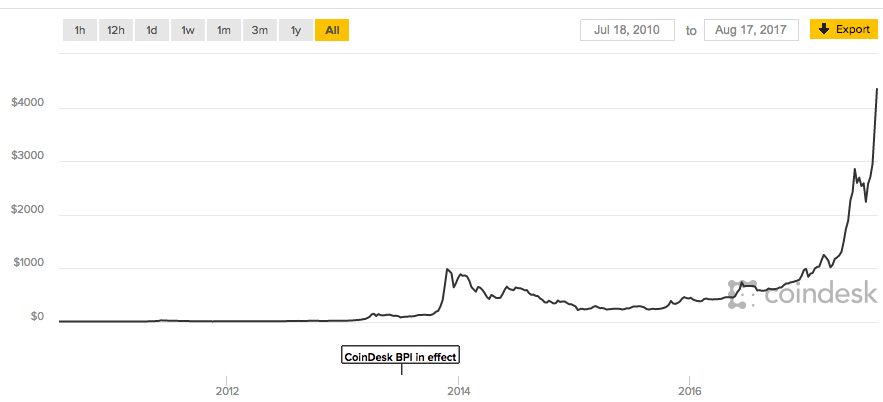
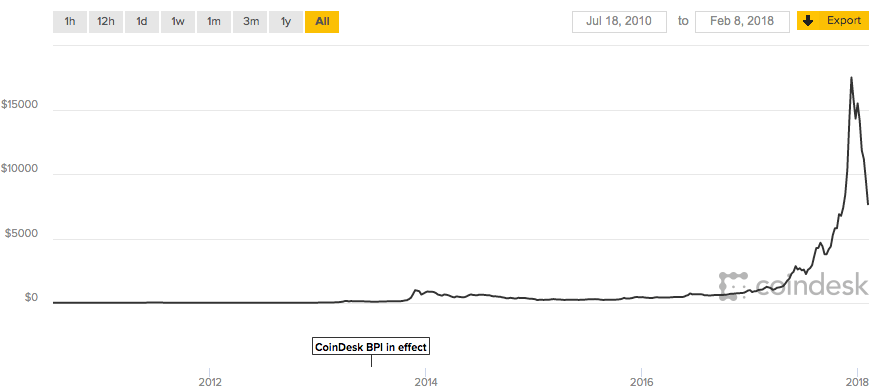
Partially translated into English

diff --git a/bitcoin_and_blockchain/index.html b/bitcoin_and_blockchain/index.html
@@ -36,129 +36,109 @@
         <section>
           <p><a href="https://www.linkedin.com/in/robin-ye-84a131b4/">Robin Ye</a>:</p>
           <blockquote>
-"目前的阶段就像 2000 年 PC 转向互联网时代，大量的 PB / VB / Delphi 程序员要么继续学习，要么被淘汰。而现在是互联网转向AI、物联网和区块链"
+"At this moment, just like in 2000, software development into the Internet age, programmers either continue learning or or be weeded out. Now the Internet age is over, welcome to the age of AI and blockchain."
           </blockquote>
         </section>
         <section>
-          <h3>我们将聊哪些内容</h3>
+          <h3>What we are going to talk about?</h3>
           <br/>
           <ul>
-            <li>货币的演进</li>
-            <li>什么是比特币</li>
-            <li>比特币发展史</li>
-            <li>比特币交易</li>
-            <li>区块链</li>
-            <li>挖矿与共识</li>
-            <li>比特币安全</li>
+            <li>Evolution of Currency</li>
+            <li>What is Bitcoin</li>
+            <li>History of Bitcoin</li>
+            <li>Transactions</li>
+            <li>Blockchain</li>
+            <li>Mining and Consensus</li>
+            <li>User Security Best Practices</li>
           </ul>
         </section>
         <section>
-          <h3>我们不聊哪些内容</h3>
+          <h3>What we are not going to talk about?</h3>
           <br/>
           <ul>
-            <li>Alt Coin 竞争币与山寨币</li>
-            <li>Ethereum 以太坊</li>
-            <li>Elliptic Curves Cryptography 椭圆曲线加密</li>
-            <li>Digital Signatures (ECDSA) 数字签名</li>
+            <li>Alternative Coins</li>
+            <li>Ethereum</li>
+            <li>Elliptic Curves Cryptography</li>
+            <li>Digital Signatures (ECDSA)</li>
           </ul>
         </section>
         <section>
-          <h2>货币的演进</h2>
+          <h2>Evolution of Currency</h2>
         </section>
         <section>
-          <h3>以物易物</h3>
+          <h3>Barter Economy</h3>
           <br/>
           <img src="img/barter_economy.png">
         </section>
         <section>
-          <h3>实物货币</h3>
+          <h3>Material Currency</h3>
           <img src="img/material_currency.png">
         </section>
         <section>
-          <h3>符号货币</h3>
+          <h3>Token Money</h3>
           <img src="img/token_money.png">
         </section>
         <section>
-          <h3>无现金社会</h3>
+          <h3>Cashless Society</h3>
           <img src="img/cashless_society.png">
         </section>
         <section>
-          <h3>中心化的网联</h3>
-          <img src="img/wanglian_pay.png">
+          <h3>What is Bitcoin?</h3>
+          <p style="text-align: left">Bitcoin consists of:</p>
+          <ul style="font-size: 28px">
+            <li>A decentralized P2P network (the bitcoin protocol)</li>
+            <li>A public transaction ledger (the blockchain)</li>
+            <li>A set of rules for independent transaction validation and currency issuance (consensus rules)</li>
+            <li>A mechanism for reaching global decentralized consensus on the valid blockchain (Proof-of-Work algorithm)</li>
+          </ul>
         </section>
         <section>
-          <h2>什么是比特币</h2>
-        </section>
-        <section>
-          <h3>什么是比特币</h3>
+          <h3>History of Bitcoin</h3>
           <br/>
           <ul>
-            <li>一种基于互联网的去中心化的<a href="https://en.wikipedia.org/wiki/Cryptocurrency">密码学货币</a></li>
-            <li>一个分布式、去中心化的点对点网络系统</li>
-            <li>一种协议、一种网络、一种分布式计算创新的代名词</li>
-            <li>一个分布式问题（<a href="https://en.wikipedia.org/wiki/Byzantine_fault_tolerance">拜占庭将军</a>）的解决方案</li>
+            <li>Bitcoin was invented in 2008 with the publication of a paper titled <a href="https://bitcoin.org/bitcoin.pdf">"Bitcoin: A Peer-to-Peer Electronic Cash System"</a> written under the alias of Satoshi Nakamoto</li>
           </ul>
         </section>
         <section>
-          <h3>比特币诞生</h3>
+          <h3>History of Bitcoin</h3>
           <br/>
           <ul>
-            <li>2008 年化名“中本聪”的人发表了<a href="https://bitcoin.org/bitcoin.pdf">《Bitcoin: A Peer-to-Peer Electronic Cash System》</a>，描述了一个完全去中心化的电子现金系统</li>
-            <li>2009 年一群工作量不饱和的程序员根据这篇论文，修订并发布了比特币网络</li>
-            <li>2011 年“中本聪”退出公众视野，比特币网络由社区维护和发展</li>
+            <li>The bitcoin network started in 2009, based on a reference implementation published by Nakamoto and since revised by many other programmers</li>
           </ul>
         </section>
         <section>
-          <h2>比特币发展史</h2>
-        </section>
-        <section>
-          <h3>2013 我们讨论比特币</h3>
+          <h3>History of Bitcoin</h3>
           <br/>
-          <p style="text-align: left">网友:</p>
-          <ul style="font-size: 32px">
-            <li>“有多少人接受使用外星人的货币来买你的房子和汽车？”</li>
-            <li>“Q币可以买到 TX 的服务！而比特币什么也买不到！一文不值！”</li>
+          <ul>
+            <li>Satoshi Nakamoto withdrew from the public in April 2011, leaving the responsibility of developing the code and network to a thriving group of volunteers</li>
           </ul>
         </section>
         <section>
-          <h3>2013 - 2017</h3>
+          <h3>2013 - 2018</h3>
           <img src="img/bitcoin_price_chart.png">
         </section>
         <section>
-          <h3>5 年后的今天</h3>
-          <br/>
-          <p style="text-align: left">新闻:</p>
-          <ul>
-            <li><a href="http://www.bitcoin86.com/szb/15294.html">80后宝妈</a>投资井通币给家庭添宝马</li>
-            <li>北邮区块链EMBA国际<a href="https://www.huodongjia.com/event-1350439315.html">总裁</a>研修班</li>
-            <li><a href="http://news.qq.com/a/20170226/008876.htm">陈满</a>疑在“总裁班”接触虚拟货币，投资百万无法提现</li>
-            <li><a href="http://www.btc38.com/news/2017/8/15021.html">薛蛮子</a>：“中国还有80%的人没听过比特币”</li>
-          </ul>
+          <h2>Bitcoin Transaction</h2>
         </section>
         <section>
-          <h2>比特币交易</h2>
-          <h5>言归正传</h5>
-        </section>
-        <section>
-          <h3>地址与钱包</h3>
+          <h3>Keys, Addresses, and Wallets</h3>
           <br/>
           <ul>
-            <li>比特币的所有权是通过密钥，地址和签名来确立的</li>
-            <li>一个人可以有多对密钥，钱包是这些密钥的容器</li>
+            <li>Ownership of bitcoin is established through digital keys, bitcoin addresses, and digital signatures</li>
+            <li>The digital keys created and stored by users in a file, or simple database, called a wallet</li>
           </ul>
           <img src="img/key_pair_and_addr.png">
         </section>
         <section>
-          <h3>交易模板</h3>
+          <h3>Transaction Inputs and Outputs</h3>
           <img src="img/inputs_and_outputs.png">
         </section>
         <section>
-          <h3>交易链</h3>
-          <p>每一次交易是比特币所有权的转移</p>
+          <h3>A chain of transactions</h3>
           <img src="img/chain_of_transcations.png">
         </section>
         <section>
-          <h3>常见交易形式</h3>
+          <h3>Common Transaction Forms</h3>
           <span>
             <img src="img/common_transcation.png">
             <img src="img/aggregationg_transaction.png">
@@ -166,7 +146,7 @@
           </span>
         </section>
         <section>
-          <h3>交易记录查询</h3>
+          <h3>The block explorer application</h3>
           <img src="img/sample_transaction.png">
           <p><a href="https://blockchain.info/tx/0627052b6f28912f2703066a912ea577f2ce4da4caa5a5fbd8a57286c345c2f2?show_adv=true">blockchain.info</a></p>
         </section>
@@ -181,7 +161,7 @@
           </ul>
         </section>
         <section>
-          <h3>交易费</h3>
+          <h3>Transaction Fees</h3>
           <pre><code data-trim contenteditable>
 Fees = Sum(Inputs) – Sum(Outputs)
           </code></pre>
@@ -217,10 +197,10 @@ Fees = Sum(Inputs) – Sum(Outputs)
           <img src="img/eval_script_for_p2pkh_2.png">
         </section>
         <section>
-          <h2>区块链</h2>
+          <h2>Blockchain</h2>
         </section>
         <section>
-          <h3>区块与区块链</h3>
+          <h3>Block and Blockchain</h3>
           <br/>
           <ul>
             <li>区块是一种聚合了交易信息的容器数据结构</li>
@@ -373,7 +353,7 @@ Fees = Sum(Inputs) – Sum(Outputs)
           </table>
         </section>
         <section>
-          <h2>挖矿与共识</h2>
+          <h2>Mining and Consensus</h2>
         </section>
         <section>
           <h3>矿工干什么，收入来自哪里？</h3>
@@ -399,7 +379,7 @@ Fees = Sum(Inputs) – Sum(Outputs)
           </ul>
         </section>
         <section>
-          <h3>工作量证明</h3>
+          <h3>Proof of Work</h3>
           <br/>
           <p>让我们回忆下区块头中的 Difficulty Target 和 Nonce</p>
           <table style="font-size: 26px">
@@ -425,7 +405,7 @@ Fees = Sum(Inputs) – Sum(Outputs)
           </table>
         </section>
         <section>
-          <h3>工作量证明</h3>
+          <h3>Proof of Work</h3>
           <br/>
           <pre style="width: 100%"><code data-trim contenteditable>
 # example of proof-of-work algorithm
@@ -487,7 +467,7 @@ New Difficulty = Old Difficulty *
           <p style="text-align: left">只要所有节点遵循选择最长累计难度链的原则，整个网络最终会收敛到一致的状态</p>
         </section>
         <section>
-          <h3>硬分叉</h3>
+          <h3>Hard Fork</h3>
           <br/>
           <p>协议、方案的升级，守旧派和革新派</p>
           <ul>
@@ -499,17 +479,16 @@ New Difficulty = Old Difficulty *
           </ul>
         </section>
         <section>
-          <h3>共识攻击：51% 攻击</h3>
+          <h3>51% Consensus Attacks</h3>
           <br/>
-          <p>如果拥有了整个网络 51% 的哈希算力，我可以</p>
+          <p>If we controlled a majority (51%) of the total network’s hashing power, we can ...</p>
           <ul>
-            <li>造成分叉使自己的交易撤销，实现双重支付</li>
-            <li>阻止区块确认部分或全部交易</li>
-            <li>阻止部分或全部矿工构建区块</li>
+            <li>Cause deliberate "forks" in the blockchain and double-spend transactions</li>
+            <li>Execute DoS attacks against specific transactions or addresses</li>
           </ul>
         </section>
         <section>
-          <h4>说了这么多，现在挖矿还来得及吗？</h4>
+          <h4>Is It Too Late to Start Mining?</h4>
         </section>
         <section>
           <h3>GPU Miner</h3>
@@ -522,31 +501,37 @@ New Difficulty = Old Difficulty *
           <p>AntMiner S2 ASIC = 1000GH/s for 120w</p>
         </section>
         <section>
-          <h3>投资回报率</h3>
+          <h3>Return On Investment</h3>
           <br/>
           <pre style="text-align: center">ROI = Miner costs / (Income per day - Power costs)</pre>
         </section>
         <section>
-          <h5>你的对手：<a href="http://www.wenxuecity.com/news/2017/05/25/6265476.html">川西深山里的"淘金客"</a></h5>
+          <h5>Your competitors: <a href="http://theweek.com/captured/718731/inside-secret-chinese-bitcoin-mine">Inside a secret Chinese bitcoin mine</a></h5>
           <img src="img/sichuan_miner.png">
-          <p>在激烈竞争的环境下，个体矿工只能选择加入矿池</p>
+          <p>In this highly competitive environment, miners collaborate to form mining pools</p>
         </section>
         <section>
-          <h2>比特币安全</h2>
+          <h2>User Security Best Practices</h2>
           <br/>
-          <blockquote style="text-align: left">“人类使用物理的安全措施已经有数千年之久。相比之下，我们的数字化安全经验还不满 50 年”</blockquote>
+          <ul>
+            <li>Physical Bitcoin Storage</li>
+            <li>Hardware Wallets</li>
+            <li>Balancing Risk</li>
+            <li>Diversifying Risk</li>
+            <li>Multisig and Governance</li>
+            <li>Survivability</li>
+          </ul>
         </section>
         <section style="text-align: left">
-          <h3>参考</h3>
+          <h3>References</h3>
           <ul>
-            <li><a href="http://blog.codinglabs.org/articles/bitcoin-mechanism-make-easy.html">一个故事告诉你比特币的原理及运作机制</a></li>
-            <li><a href="http://blog.codingnow.com/2011/05/bitcoin.html">云风的BLOG: Bitcoin 的基本原理</a></li>
             <li><a href="https://github.com/bitcoinbook/bitcoinbook">Mastering Bitcoin</a></li>
+            <li><a href="https://www.coindesk.com/">CoinDesk</a></li>
           </ul>
         </section>
         <section>
           <h1>The End</h1>
-          <h4>讨论环节</h4>
+          <h4>Q&A</h4>
         </section>
       </div>
     </div>

diff --git a/index.html b/index.html
@@ -1,27 +1,27 @@
 <!doctype html>  
-<html lang="zh-CN">
+<html lang="en">
 <head>
   <title>Sonic Wu :: Talks</title>
 </head>
 <body>
   <h3>Talks and Slides</h3>
   <p>
-    <a href="intro_to_dubbo/index.html">Dubbo - 高性能分布式 RPC 框架 (Introduction To Dubbo)</a> | <a href="intro_to_dubbo/intro_to_dubbo.pdf">PDF</a> | 2015.03.13, Goodbaby Group
+    <a href="intro_to_dubbo/index.html">Introduction To Dubbo</a> | <a href="intro_to_dubbo/intro_to_dubbo.pdf">PDF</a> | 2015.03.13, Goodbaby Group
   </p>
   <p>
-    <a href="intro_to_maven/index.html">使用 Maven 做项目构建 (Introduction To Maven)</a> | <a href="intro_to_maven/intro_to_maven.pdf">PDF</a> | 2015.04.13, Goodbaby Group
+    <a href="intro_to_maven/index.html">Introduction To Maven</a> | <a href="intro_to_maven/intro_to_maven.pdf">PDF</a> | 2015.04.13, Goodbaby Group
   </p>
   <p>
-    <a href="the_algorithms_behind_software/index.html">软件背后的算法 (The Algorithms behind Software)</a> | <a href="the_algorithms_behind_software/the_algorithms_behind_software.pdf">PDF</a> | 2015.04.16, Goodbaby Group
+    <a href="the_algorithms_behind_software/index.html">The Algorithms behind Software</a> | <a href="the_algorithms_behind_software/the_algorithms_behind_software.pdf">PDF</a> | 2015.04.16, Goodbaby Group
   </p>
   <p>
-    <a href="bitcoin_and_blockchain/index.html">比特币与区块链 (Bitcoin and Blockchain)</a> | <a href="bitcoin_and_blockchain/bitcoin_and_blockchain.pdf">PDF</a> | 2017.08.25, Wisdom Garden
+    <a href="bitcoin_and_blockchain/index.html">Bitcoin and Blockchain</a> | <a href="bitcoin_and_blockchain/bitcoin_and_blockchain.pdf">PDF</a> | 2017.08.25, Wisdom Garden
   </p>
   <p>
     ===================
   </p>
   <p>
-    Sonic Wu (c) 2015-2017 <br />
+    Sonic Wu (c) 2015-2018 <br />
     <a href="http://sonicwu.com">sonicwu.com</a> | @<a href="http://github.com/sonicwu">github</a> | @<a href="http://twitter.com/sonicwu">twitter</a> | mail: hibigelf at gmail dot com
   </p>
 

diff --git a/the_algorithms_behind_software/index.html b/the_algorithms_behind_software/index.html
@@ -389,7 +389,7 @@ function getCacheNode(key) {
       </section>
       <section>
         <h1>The End</h1>
-        <h4>讨论环节</h4>
+        <h4>Q&A</h4>
       </section>
     </div>
   </div>
